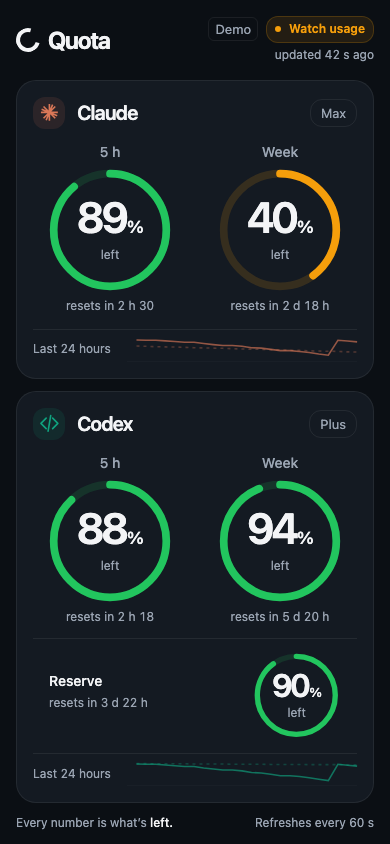
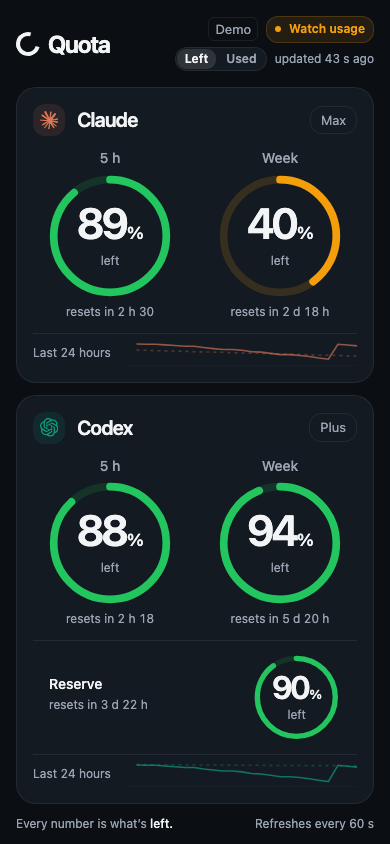
feat(web): a Left/Used toggle in the header, synced through the worker
The ring, the big number, its sub-label and the footer line all follow the
display setting; countdowns and severity colours are untouched.

diff --git a/web/app.js b/web/app.js
@@ -3,16 +3,28 @@
 
   const $ = (selector) => document.querySelector(selector);
   const storageKey = 'quota.token';
-  const demo = new URLSearchParams(location.search).get('demo') === '1';
+  const query = new URLSearchParams(location.search);
+  const demo = query.get('demo') === '1';
+  const displayModes = ['remaining', 'used'];
   const providerNames = { claude: 'Claude', codex: 'Codex' };
   const windows = { claude: ['session', 'weekly'], codex: ['session', 'weekly', 'reserve'] };
   const labels = { session: '5 h', weekly: 'Week', reserve: 'Reserve' };
+  // Official monochrome marks, simple-icons (CC0). Trademarks of Anthropic and OpenAI,
+  // used nominatively to identify the service. See docs/brand/NOTICE.md.
+  const marks = {
+    claude: '<path d="m4.7144 15.9555 4.7174-2.6471.079-.2307-.079-.1275h-.2307l-.7893-.0486-2.6956-.0729-2.3375-.0971-2.2646-.1214-.5707-.1215-.5343-.7042.0546-.3522.4797-.3218.686.0608 1.5179.1032 2.2767.1578 1.6514.0972 2.4468.255h.3886l.0546-.1579-.1336-.0971-.1032-.0972L6.973 9.8356l-2.55-1.6879-1.3356-.9714-.7225-.4918-.3643-.4614-.1578-1.0078.6557-.7225.8803.0607.2246.0607.8925.686 1.9064 1.4754 2.4893 1.8336.3643.3035.1457-.1032.0182-.0728-.164-.2733-1.3539-2.4467-1.445-2.4893-.6435-1.032-.17-.6194c-.0607-.255-.1032-.4674-.1032-.7285L6.287.1335 6.6997 0l.9957.1336.419.3642.6192 1.4147 1.0018 2.2282 1.5543 3.0296.4553.8985.2429.8318.091.255h.1579v-.1457l.1275-1.706.2368-2.0947.2307-2.6957.0789-.7589.3764-.9107.7468-.4918.5828.2793.4797.686-.0668.4433-.2853 1.8517-.5586 2.9021-.3643 1.9429h.2125l.2429-.2429.9835-1.3053 1.6514-2.0643.7286-.8196.85-.9046.5464-.4311h1.0321l.759 1.1293-.34 1.1657-1.0625 1.3478-.8804 1.1414-1.2628 1.7-.7893 1.36.0729.1093.1882-.0183 2.8535-.607 1.5421-.2794 1.8396-.3157.8318.3886.091.3946-.3278.8075-1.967.4857-2.3072.4614-3.4364.8136-.0425.0304.0486.0607 1.5482.1457.6618.0364h1.621l3.0175.2247.7892.522.4736.6376-.079.4857-1.2142.6193-1.6393-.3886-3.825-.9107-1.3113-.3279h-.1822v.1093l1.0929 1.0686 2.0035 1.8092 2.5075 2.3314.1275.5768-.3218.4554-.34-.0486-2.2039-1.6575-.85-.7468-1.9246-1.621h-.1275v.17l.4432.6496 2.3436 3.5214.1214 1.0807-.17.3521-.6071.2125-.6679-.1214-1.3721-1.9246L14.38 17.959l-1.1414-1.9428-.1397.079-.674 7.2552-.3156.3703-.7286.2793-.6071-.4614-.3218-.7468.3218-1.4753.3886-1.9246.3157-1.53.2853-1.9004.17-.6314-.0121-.0425-.1397.0182-1.4328 1.9672-2.1796 2.9446-1.7243 1.8456-.4128.164-.7164-.3704.0667-.6618.4008-.5889 2.386-3.0357 1.4389-1.882.929-1.0868-.0062-.1579h-.0546l-6.3385 4.1164-1.1293.1457-.4857-.4554.0608-.7467.2307-.2429 1.9064-1.3114Z"/>',
+    codex: '<path d="M22.2819 9.8211a5.9847 5.9847 0 0 0-.5157-4.9108 6.0462 6.0462 0 0 0-6.5098-2.9A6.0651 6.0651 0 0 0 4.9807 4.1818a5.9847 5.9847 0 0 0-3.9977 2.9 6.0462 6.0462 0 0 0 .7427 7.0966 5.98 5.98 0 0 0 .511 4.9107 6.051 6.051 0 0 0 6.5146 2.9001A5.9847 5.9847 0 0 0 13.2599 24a6.0557 6.0557 0 0 0 5.7718-4.2058 5.9894 5.9894 0 0 0 3.9977-2.9001 6.0557 6.0557 0 0 0-.7475-7.0729zm-9.022 12.6081a4.4755 4.4755 0 0 1-2.8764-1.0408l.1419-.0804 4.7783-2.7582a.7948.7948 0 0 0 .3927-.6813v-6.7369l2.02 1.1686a.071.071 0 0 1 .038.052v5.5826a4.504 4.504 0 0 1-4.4945 4.4944zm-9.6607-4.1254a4.4708 4.4708 0 0 1-.5346-3.0137l.142.0852 4.783 2.7582a.7712.7712 0 0 0 .7806 0l5.8428-3.3685v2.3324a.0804.0804 0 0 1-.0332.0615L9.74 19.9502a4.4992 4.4992 0 0 1-6.1408-1.6464zM2.3408 7.8956a4.485 4.485 0 0 1 2.3655-1.9728V11.6a.7664.7664 0 0 0 .3879.6765l5.8144 3.3543-2.0201 1.1685a.0757.0757 0 0 1-.071 0l-4.8303-2.7865A4.504 4.504 0 0 1 2.3408 7.872zm16.5963 3.8558L13.1038 8.364 15.1192 7.2a.0757.0757 0 0 1 .071 0l4.8303 2.7913a4.4944 4.4944 0 0 1-.6765 8.1042v-5.6772a.79.79 0 0 0-.407-.667zm2.0107-3.0231l-.142-.0852-4.7735-2.7818a.7759.7759 0 0 0-.7854 0L9.409 9.2297V6.8974a.0662.0662 0 0 1 .0284-.0615l4.8303-2.7866a4.4992 4.4992 0 0 1 6.6802 4.66zM8.3065 12.863l-2.02-1.1638a.0804.0804 0 0 1-.038-.0567V6.0742a4.4992 4.4992 0 0 1 7.3757-3.4537l-.142.0805L8.704 5.459a.7948.7948 0 0 0-.3927.6813zm1.0976-2.3654l2.602-1.4998 2.6069 1.4998v2.9994l-2.5974 1.4997-2.6067-1.4997Z"/>'
+  };
   let token = '';
   let snapshot = null;
   let receivedAt = 0;
   let request = null;
   let failure = '';
   let authFailed = false;
+  // "remaining" prints what is left (Claude's convention), "used" what is spent
+  // (Codex's). The worker stores it per device so every screen agrees.
+  let displayMode = displayModes.includes(query.get('display')) ? query.get('display') : 'remaining';
+  let savingDisplay = false;
   let demoSnapshot;
   const cards = new Map();
 
@@ -82,16 +94,52 @@
     return `updated ${Math.floor(age / 86400)} d ago`;
   }
 
+  function usedMode() { return displayMode === 'used'; }
+
+  function paintDisplayToggle() {
+    for (const button of document.querySelectorAll('#display-toggle button')) {
+      button.setAttribute('aria-pressed', String(button.dataset.mode === displayMode));
+    }
+    $('#footer-note').innerHTML = usedMode()
+      ? 'Every number is what\u2019s <strong>used.</strong>'
+      : 'Every number is what\u2019s <strong>left.</strong>';
+  }
+
+  /** Optimistic: paint the new mode at once, then persist it for the other screens. */
+  async function setDisplay(mode) {
+    if (!displayModes.includes(mode) || mode === displayMode) return;
+    const previous = displayMode;
+    displayMode = mode;
+    paintDisplayToggle();
+    render();
+    if (demo || !token) return;
+    savingDisplay = true;
+    try {
+      const response = await fetch('/v1/settings', {
+        method: 'PUT',
+        headers: { Authorization: `Bearer ${token}`, 'content-type': 'application/json' },
+        body: JSON.stringify({ display: mode }),
+        cache: 'no-store', credentials: 'omit', redirect: 'error'
+      });
+      if (!response.ok) throw new Error(`Settings ${response.status}`);
+    } catch {
+      displayMode = previous;
+      paintDisplayToggle();
+      failure = 'Couldn\u2019t save that on your other screens.';
+      render();
+    } finally {
+      savingDisplay = false;
+    }
+  }
+
   function createCard(id) {
     const card = document.createElement('article');
     card.className = 'provider';
     card.dataset.provider = id;
     card.setAttribute('aria-labelledby', `${id}-title`);
-    const icon = id === 'claude'
-      ? '<path d="M16 3v26M3 16h26M7 7l18 18M7 25 25 7M4 11l24 10M11 28 21 4" fill="none" stroke="currentColor" stroke-width="2.5"/>'
-      : '<path d="m11 8-8 8 8 8m10-16 8 8-8 8m-3-20-4 24" fill="none" stroke="currentColor" stroke-width="2.5" stroke-linecap="round" stroke-linejoin="round"/>';
+    const icon = marks[id];
     // Only fixed, local markup is inserted as HTML. API strings use textContent.
-    card.innerHTML = `<header class="provider-header"><div class="provider-identity"><span class="provider-icon" aria-hidden="true"><svg viewBox="0 0 32 32">${icon}</svg></span><div><h2 id="${id}-title">${providerNames[id]}</h2><div class="provider-subtitle">${id === 'codex' ? 'ChatGPT' : 'Anthropic'}</div></div></div><span class="plan"></span></header><div class="gauges"></div><p class="provider-empty" hidden>No limits reported yet</p><div class="history" hidden><div class="history-heading"><span>Last 24 hours</span><span class="history-legend"><span><i class="history-key"></i>5 h</span><span><i class="history-key week"></i>Week</span></span></div><svg viewBox="0 0 600 60" preserveAspectRatio="none" role="img" aria-label="${providerNames[id]} remaining capacity over the last 24 hours"><line class="history-baseline" x1="0" y1="59" x2="600" y2="59"/><polyline class="session-line"/><polyline class="weekly-line"/></svg></div>`;
+    card.innerHTML = `<header class="provider-header"><div class="provider-identity"><span class="provider-icon" aria-hidden="true"><svg viewBox="0 0 24 24">${icon}</svg></span><div><h2 id="${id}-title">${providerNames[id]}</h2><div class="provider-subtitle">${id === 'codex' ? 'ChatGPT' : 'Anthropic'}</div></div></div><span class="plan"></span></header><div class="gauges"></div><p class="provider-empty" hidden>No limits reported yet</p><div class="history" hidden><div class="history-heading"><span>Last 24 hours</span><span class="history-legend"><span><i class="history-key"></i>5 h</span><span><i class="history-key week"></i>Week</span></span></div><svg viewBox="0 0 600 60" preserveAspectRatio="none" role="img" aria-label="${providerNames[id]} remaining capacity over the last 24 hours"><line class="history-baseline" x1="0" y1="59" x2="600" y2="59"/><polyline class="session-line"/><polyline class="weekly-line"/></svg></div>`;
     $('#providers').append(card);
     const entry = { element: card, gauges: new Map() };
     cards.set(id, entry);
@@ -129,6 +177,8 @@
 
   function render() {
     if (!snapshot) return;
+    paintDisplayToggle();
+    $('#dashboard').setAttribute('aria-label', usedMode() ? 'AI capacity used' : 'AI capacity remaining');
     const age = ageSeconds();
     const stale = snapshot.stale === true || age > 600;
     const allWindows = Object.values(snapshot.providers).flatMap((p) => Array.isArray(p?.windows) ? p.windows : []);
@@ -147,6 +197,8 @@
 
     for (const id of Object.keys(providerNames)) {
       const card = cards.get(id) || createCard(id);
+      card.element.querySelector('.history svg')
+        .setAttribute('aria-label', `${providerNames[id]} capacity ${usedMode() ? 'used' : 'remaining'} over the last 24 hours`);
       const provider = snapshot.providers[id];
       card.element.querySelector('.plan').textContent = provider?.plan || 'Not connected';
       const reported = Array.isArray(provider?.windows) ? provider.windows : [];
@@ -160,15 +212,20 @@
         count++;
         const valid = validPercent(data.percent);
         const remaining = valid ? Math.round((100 - data.percent) * 10) / 10 : null;
+        // Same arc, read the other way round: it grows with usage in "used" mode.
+        const shown = valid ? (usedMode() ? Math.round(data.percent * 10) / 10 : remaining) : null;
+        const word = usedMode() ? 'used' : 'remaining';
         const meter = gauge.querySelector('.meter');
         const ring = gauge.querySelector('.ring-fill');
         gauge.dataset.severity = stale || !valid ? 'stale' : severity(data.percent);
-        gauge.querySelector('.number').textContent = valid ? String(remaining) : '—';
+        gauge.querySelector('.number').textContent = valid ? String(shown) : '—';
         gauge.querySelector('.percent').hidden = !valid;
-        if (valid) meter.setAttribute('aria-valuenow', remaining);
+        gauge.querySelector('.remaining').textContent = usedMode() ? 'used' : 'left';
+        meter.setAttribute('aria-label', `${providerNames[id]} ${labels[windowId]} ${word}`);
+        if (valid) meter.setAttribute('aria-valuenow', shown);
         else meter.removeAttribute('aria-valuenow');
-        meter.setAttribute('aria-valuetext', valid ? `${remaining}% remaining${stale ? ', stale data' : ''}` : 'Unavailable');
-        const offset = valid ? String(100 - remaining) : '100';
+        meter.setAttribute('aria-valuetext', valid ? `${shown}% ${word}${stale ? ', stale data' : ''}` : 'Unavailable');
+        const offset = valid ? String(100 - shown) : '100';
         if (ring.dataset.offset !== offset) {
           if (ring.dataset.offset !== undefined) ring.classList.add('has-value');
           ring.style.strokeDashoffset = offset;
@@ -176,7 +233,7 @@
         }
         // A butt cap leaves no coloured dot at zero, while the arc can still
         // animate all the way to empty instead of disappearing immediately.
-        ring.style.strokeLinecap = remaining === 0 ? 'butt' : 'round';
+        ring.style.strokeLinecap = shown === 0 ? 'butt' : 'round';
         ring.style.opacity = valid ? '1' : '0';
         gauge.querySelector('.reset').textContent = resetText(data.resets_at);
       }
@@ -191,6 +248,8 @@
     }
     snapshot = data;
     receivedAt = Date.now();
+    // The server is the source of truth, except while our own PUT is in flight.
+    if (!savingDisplay && displayModes.includes(data.display)) displayMode = data.display;
     failure = '';
     render();
     for (const [id, card] of cards) renderHistory(card, id);
@@ -240,6 +299,7 @@
     $('#pairing').hidden = false;
     $('#dashboard').hidden = true;
     $('#status-group').hidden = true;
+    $('#display-toggle').hidden = true;
     $('#pairing-error').textContent = message;
     $('#pairing-error').hidden = !message;
   }
@@ -258,6 +318,8 @@
     $('#dashboard').hidden = false;
     $('#status-group').hidden = false;
     $('#demo-badge').hidden = !demo;
+    $('#display-toggle').hidden = false;
+    paintDisplayToggle();
     $('#updated').textContent = '';
     $('#severity').textContent = 'Connecting';
     $('#severity').dataset.severity = 'loading';
@@ -285,6 +347,10 @@
       $('#pairing-url').value = '';
       start();
     } catch { showPairing('Paste the complete pairing URL, including #t= and its token.'); }
+  });
+  $('#display-toggle').addEventListener('click', (event) => {
+    const button = event.target.closest('button[data-mode]');
+    if (button) setDisplay(button.dataset.mode);
   });
   window.addEventListener('hashchange', start);
   document.addEventListener('visibilitychange', () => { if (!document.hidden) refresh(); });

diff --git a/web/style.css b/web/style.css
@@ -33,6 +33,10 @@ h1 { font-size: clamp(1.5rem, 2.3vw, 2rem); line-height: 1; letter-spacing: -.05
 [data-severity="warn"] { --severity: var(--warn); }
 [data-severity="critical"] { --severity: var(--critical); }
 [data-severity="stale"], [data-severity="loading"] { --severity: var(--stale); }
+.segmented { display: inline-flex; gap: 2px; padding: 2px; background: var(--surface); border: 1px solid var(--border); border-radius: 12px; }
+.segmented button { border: 0; background: none; color: var(--muted); font-size: .8125rem; font-weight: 600; padding: 5px 12px; border-radius: 9px; cursor: pointer; line-height: 1.2; }
+.segmented button:hover { color: var(--text); }
+.segmented button[aria-pressed="true"] { background: color-mix(in srgb, var(--text) 12%, transparent); color: var(--text); }
 .updated, .demo-badge { color: var(--muted); font-size: .8125rem; }
 .demo-badge { border: 1px solid var(--border); border-radius: 6px; padding: 2px 6px; }
 .dashboard { display: flex; flex-direction: column; flex: 1; gap: 16px; }
@@ -42,7 +46,7 @@ h1 { font-size: clamp(1.5rem, 2.3vw, 2rem); line-height: 1; letter-spacing: -.05
 .provider-header { display: flex; align-items: center; justify-content: space-between; gap: 8px; }
 .provider-identity { display: flex; align-items: center; gap: 12px; }
 .provider-icon { width: clamp(32px, 3vw, 48px); aspect-ratio: 1; display: grid; place-items: center; background: color-mix(in srgb, var(--accent) 12%, transparent); color: var(--accent); border-radius: 12px; }
-.provider-icon svg { width: 65%; height: 65%; }
+.provider-icon svg { width: 58%; height: 58%; fill: currentColor; }
 .provider h2 { margin: 0; font-size: clamp(1.25rem, 2vw, 1.875rem); font-weight: 600; letter-spacing: -.035em; }
 .provider-subtitle { color: var(--muted); font-size: .75rem; }
 .plan { color: var(--muted); font-size: .8125rem; border: 1px solid var(--border); padding: 4px 10px; border-radius: 12px; text-transform: capitalize; }
@@ -111,7 +115,10 @@ h1 { font-size: clamp(1.5rem, 2.3vw, 2rem); line-height: 1; letter-spacing: -.05
   .brand { gap: 8px; }
   .status-group { gap: 4px 8px; justify-content: flex-end; }
   .status-pill { padding: 4px 8px; font-size: .75rem; }
-  .updated { width: 100%; text-align: right; font-size: .75rem; }
+  /* Two rows, never three: the toggle joins whichever row still has room. */
+  .segmented { order: 1; padding: 1px; }
+  .segmented button { padding: 3px 8px; font-size: .75rem; }
+  .updated { order: 2; text-align: right; font-size: .75rem; }
   .providers { grid-template-columns: minmax(0, 1fr); gap: 12px; }
   .provider { padding: 16px; }
   .provider-header { min-height: 32px; }

diff --git a/web/index.html b/web/index.html
@@ -18,6 +18,10 @@
     <header class="topbar">
       <div class="brand"><span class="brand-mark" aria-hidden="true"></span><h1>Quota</h1><span class="tagline">Your AI usage at a glance</span></div>
       <div class="status-group" id="status-group" hidden>
+        <div class="segmented" id="display-toggle" role="group" aria-label="Show percentages as" hidden>
+          <button type="button" data-mode="remaining" aria-pressed="true">Left</button>
+          <button type="button" data-mode="used" aria-pressed="false">Used</button>
+        </div>
         <span class="demo-badge" id="demo-badge" hidden>Demo</span>
         <span class="status-pill" id="severity" role="status">Connecting</span>
         <span class="updated" id="updated"></span>
@@ -40,10 +44,10 @@
       </section>
     </main>
 
-    <main id="dashboard" class="dashboard" hidden aria-label="Remaining AI capacity">
+    <main id="dashboard" class="dashboard" hidden aria-label="AI capacity remaining">
       <div class="notice" id="notice" role="status" hidden></div>
       <div class="providers" id="providers"></div>
-      <footer class="footer"><span>Every number is what’s <strong>left.</strong></span><span id="refresh-note">Refreshes every 60 s</span></footer>
+      <footer class="footer"><span id="footer-note">Every number is what’s <strong>left.</strong></span><span id="refresh-note">Refreshes every 60 s</span></footer>
     </main>
     <noscript><p class="notice">Enable JavaScript to pair this screen and see your limits.</p></noscript>
   </div>

diff --git a/docs/DESIGN.md b/docs/DESIGN.md
@@ -6,8 +6,15 @@ Dark first (it lives on a second screen, all day). Light must work too.
 - Text primary `#F3F4F6` / `#111827`; secondary `#9AA4B2` / `#6B7280`.
 - Severity: ok `#22C55E`, warn `#F59E0B`, critical `#EF4444`, stale `#6B7280` (grey ring, no colour).
 - Provider accents: Claude `#D97757`, Codex `#10A37F`.
-- Gauge: ring, stroke 12 (phone) / 8 (widget), track at 15 % opacity, value = **remaining**, not used
-  (the number you want to read is what is left). Centre: big remaining %, below: "resets in 2 h 10".
+- Gauge: ring, stroke 12 (phone) / 8 (widget), track at 15 % opacity. Centre: the big number,
+  below it "left" or "used", under the ring "resets in 2 h 10".
+- Display mode (`display` in `GET /v1/status`, one setting for every client): `remaining` is the
+  default — the number you want to read is what is left, and the arc empties as you spend.
+  `used` is Codex's convention — the number is what is spent and the arc fills. Same colours,
+  same thresholds: severity always runs on the used percent.
+- Provider marks: the official monochrome Claude spark and OpenAI logo, `fill: currentColor`
+  tinted with the provider accent, in a 12-radius square at 12 % of that accent.
+  See [`brand/NOTICE.md`](brand/NOTICE.md) — trademarks, used nominatively.
 - Type: system (Inter / SF / Roboto), tabular numbers, 600 for the big number.
 - Radius 20 cards, 12 chips. Spacing 8-grid.
 - Motion: ring animates on value change only, 400 ms ease-out. Nothing else moves.

diff --git a/docs/brand/NOTICE.md b/docs/brand/NOTICE.md
@@ -1,0 +1,15 @@
+# Brand marks
+
+`claude.svg` (the Claude spark) and `openai.svg` are the marks of the two services Quota
+reads. They are **trademarks of Anthropic PBC and OpenAI, Inc.** respectively, and are used
+here **nominatively** — only to identify which provider a card shows. Quota is not
+affiliated with, endorsed by, or sponsored by either company.
+
+Source: [simple-icons](https://github.com/simple-icons/simple-icons), released under
+**CC0 1.0 Universal** (the icon files; the trademarks themselves remain their owners').
+Fetched from `https://cdn.jsdelivr.net/npm/simple-icons@latest/icons/{claude,openai}.svg`
+on 2026-09-09.
+
+The web dashboard inlines the same two paths (`web/assets/`) with `fill: currentColor`,
+tinted with the provider accent — Claude `#D97757`, Codex `#10A37F`. Monochrome only: never
+recolour a mark to anything but a single flat tint, never stretch it, never alter the paths.
